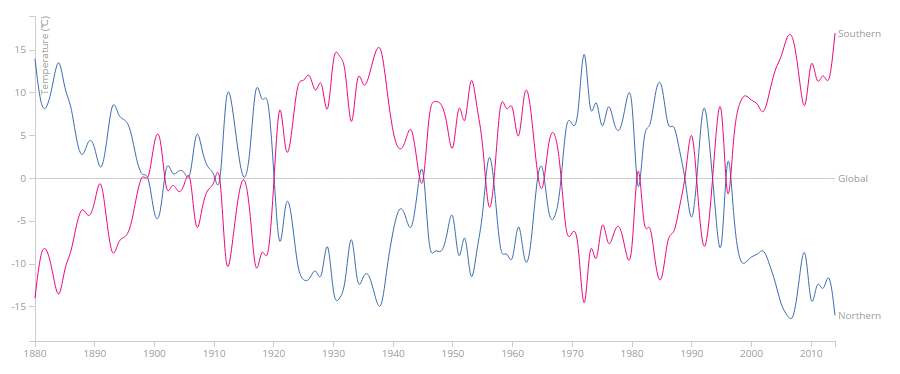
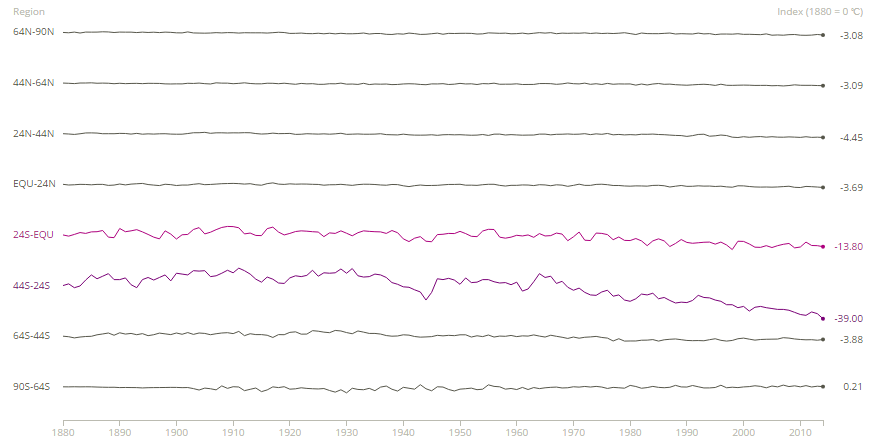
Updated to small multiples

diff --git a/js/colorbrewer.v1.min.js b/js/colorbrewer.v1.min.js
@@ -1,0 +1,1 @@
+var colorbrewer={YlGn:{3:["#f7fcb9","#addd8e","#31a354"],4:["#ffffcc","#c2e699","#78c679","#238443"],5:["#ffffcc","#c2e699","#78c679","#31a354","#006837"],6:["#ffffcc","#d9f0a3","#addd8e","#78c679","#31a354","#006837"],7:["#ffffcc","#d9f0a3","#addd8e","#78c679","#41ab5d","#238443","#005a32"],8:["#ffffe5","#f7fcb9","#d9f0a3","#addd8e","#78c679","#41ab5d","#238443","#005a32"],9:["#ffffe5","#f7fcb9","#d9f0a3","#addd8e","#78c679","#41ab5d","#238443","#006837","#004529"]},YlGnBu:{3:["#edf8b1","#7fcdbb","#2c7fb8"],4:["#ffffcc","#a1dab4","#41b6c4","#225ea8"],5:["#ffffcc","#a1dab4","#41b6c4","#2c7fb8","#253494"],6:["#ffffcc","#c7e9b4","#7fcdbb","#41b6c4","#2c7fb8","#253494"],7:["#ffffcc","#c7e9b4","#7fcdbb","#41b6c4","#1d91c0","#225ea8","#0c2c84"],8:["#ffffd9","#edf8b1","#c7e9b4","#7fcdbb","#41b6c4","#1d91c0","#225ea8","#0c2c84"],9:["#ffffd9","#edf8b1","#c7e9b4","#7fcdbb","#41b6c4","#1d91c0","#225ea8","#253494","#081d58"]},GnBu:{3:["#e0f3db","#a8ddb5","#43a2ca"],4:["#f0f9e8","#bae4bc","#7bccc4","#2b8cbe"],5:["#f0f9e8","#bae4bc","#7bccc4","#43a2ca","#0868ac"],6:["#f0f9e8","#ccebc5","#a8ddb5","#7bccc4","#43a2ca","#0868ac"],7:["#f0f9e8","#ccebc5","#a8ddb5","#7bccc4","#4eb3d3","#2b8cbe","#08589e"],8:["#f7fcf0","#e0f3db","#ccebc5","#a8ddb5","#7bccc4","#4eb3d3","#2b8cbe","#08589e"],9:["#f7fcf0","#e0f3db","#ccebc5","#a8ddb5","#7bccc4","#4eb3d3","#2b8cbe","#0868ac","#084081"]},BuGn:{3:["#e5f5f9","#99d8c9","#2ca25f"],4:["#edf8fb","#b2e2e2","#66c2a4","#238b45"],5:["#edf8fb","#b2e2e2","#66c2a4","#2ca25f","#006d2c"],6:["#edf8fb","#ccece6","#99d8c9","#66c2a4","#2ca25f","#006d2c"],7:["#edf8fb","#ccece6","#99d8c9","#66c2a4","#41ae76","#238b45","#005824"],8:["#f7fcfd","#e5f5f9","#ccece6","#99d8c9","#66c2a4","#41ae76","#238b45","#005824"],9:["#f7fcfd","#e5f5f9","#ccece6","#99d8c9","#66c2a4","#41ae76","#238b45","#006d2c","#00441b"]},PuBuGn:{3:["#ece2f0","#a6bddb","#1c9099"],4:["#f6eff7","#bdc9e1","#67a9cf","#02818a"],5:["#f6eff7","#bdc9e1","#67a9cf","#1c9099","#016c59"],6:["#f6eff7","#d0d1e6","#a6bddb","#67a9cf","#1c9099","#016c59"],7:["#f6eff7","#d0d1e6","#a6bddb","#67a9cf","#3690c0","#02818a","#016450"],8:["#fff7fb","#ece2f0","#d0d1e6","#a6bddb","#67a9cf","#3690c0","#02818a","#016450"],9:["#fff7fb","#ece2f0","#d0d1e6","#a6bddb","#67a9cf","#3690c0","#02818a","#016c59","#014636"]},PuBu:{3:["#ece7f2","#a6bddb","#2b8cbe"],4:["#f1eef6","#bdc9e1","#74a9cf","#0570b0"],5:["#f1eef6","#bdc9e1","#74a9cf","#2b8cbe","#045a8d"],6:["#f1eef6","#d0d1e6","#a6bddb","#74a9cf","#2b8cbe","#045a8d"],7:["#f1eef6","#d0d1e6","#a6bddb","#74a9cf","#3690c0","#0570b0","#034e7b"],8:["#fff7fb","#ece7f2","#d0d1e6","#a6bddb","#74a9cf","#3690c0","#0570b0","#034e7b"],9:["#fff7fb","#ece7f2","#d0d1e6","#a6bddb","#74a9cf","#3690c0","#0570b0","#045a8d","#023858"]},BuPu:{3:["#e0ecf4","#9ebcda","#8856a7"],4:["#edf8fb","#b3cde3","#8c96c6","#88419d"],5:["#edf8fb","#b3cde3","#8c96c6","#8856a7","#810f7c"],6:["#edf8fb","#bfd3e6","#9ebcda","#8c96c6","#8856a7","#810f7c"],7:["#edf8fb","#bfd3e6","#9ebcda","#8c96c6","#8c6bb1","#88419d","#6e016b"],8:["#f7fcfd","#e0ecf4","#bfd3e6","#9ebcda","#8c96c6","#8c6bb1","#88419d","#6e016b"],9:["#f7fcfd","#e0ecf4","#bfd3e6","#9ebcda","#8c96c6","#8c6bb1","#88419d","#810f7c","#4d004b"]},RdPu:{3:["#fde0dd","#fa9fb5","#c51b8a"],4:["#feebe2","#fbb4b9","#f768a1","#ae017e"],5:["#feebe2","#fbb4b9","#f768a1","#c51b8a","#7a0177"],6:["#feebe2","#fcc5c0","#fa9fb5","#f768a1","#c51b8a","#7a0177"],7:["#feebe2","#fcc5c0","#fa9fb5","#f768a1","#dd3497","#ae017e","#7a0177"],8:["#fff7f3","#fde0dd","#fcc5c0","#fa9fb5","#f768a1","#dd3497","#ae017e","#7a0177"],9:["#fff7f3","#fde0dd","#fcc5c0","#fa9fb5","#f768a1","#dd3497","#ae017e","#7a0177","#49006a"]},PuRd:{3:["#e7e1ef","#c994c7","#dd1c77"],4:["#f1eef6","#d7b5d8","#df65b0","#ce1256"],5:["#f1eef6","#d7b5d8","#df65b0","#dd1c77","#980043"],6:["#f1eef6","#d4b9da","#c994c7","#df65b0","#dd1c77","#980043"],7:["#f1eef6","#d4b9da","#c994c7","#df65b0","#e7298a","#ce1256","#91003f"],8:["#f7f4f9","#e7e1ef","#d4b9da","#c994c7","#df65b0","#e7298a","#ce1256","#91003f"],9:["#f7f4f9","#e7e1ef","#d4b9da","#c994c7","#df65b0","#e7298a","#ce1256","#980043","#67001f"]},OrRd:{3:["#fee8c8","#fdbb84","#e34a33"],4:["#fef0d9","#fdcc8a","#fc8d59","#d7301f"],5:["#fef0d9","#fdcc8a","#fc8d59","#e34a33","#b30000"],6:["#fef0d9","#fdd49e","#fdbb84","#fc8d59","#e34a33","#b30000"],7:["#fef0d9","#fdd49e","#fdbb84","#fc8d59","#ef6548","#d7301f","#990000"],8:["#fff7ec","#fee8c8","#fdd49e","#fdbb84","#fc8d59","#ef6548","#d7301f","#990000"],9:["#fff7ec","#fee8c8","#fdd49e","#fdbb84","#fc8d59","#ef6548","#d7301f","#b30000","#7f0000"]},YlOrRd:{3:["#ffeda0","#feb24c","#f03b20"],4:["#ffffb2","#fecc5c","#fd8d3c","#e31a1c"],5:["#ffffb2","#fecc5c","#fd8d3c","#f03b20","#bd0026"],6:["#ffffb2","#fed976","#feb24c","#fd8d3c","#f03b20","#bd0026"],7:["#ffffb2","#fed976","#feb24c","#fd8d3c","#fc4e2a","#e31a1c","#b10026"],8:["#ffffcc","#ffeda0","#fed976","#feb24c","#fd8d3c","#fc4e2a","#e31a1c","#b10026"],9:["#ffffcc","#ffeda0","#fed976","#feb24c","#fd8d3c","#fc4e2a","#e31a1c","#bd0026","#800026"]},YlOrBr:{3:["#fff7bc","#fec44f","#d95f0e"],4:["#ffffd4","#fed98e","#fe9929","#cc4c02"],5:["#ffffd4","#fed98e","#fe9929","#d95f0e","#993404"],6:["#ffffd4","#fee391","#fec44f","#fe9929","#d95f0e","#993404"],7:["#ffffd4","#fee391","#fec44f","#fe9929","#ec7014","#cc4c02","#8c2d04"],8:["#ffffe5","#fff7bc","#fee391","#fec44f","#fe9929","#ec7014","#cc4c02","#8c2d04"],9:["#ffffe5","#fff7bc","#fee391","#fec44f","#fe9929","#ec7014","#cc4c02","#993404","#662506"]},Purples:{3:["#efedf5","#bcbddc","#756bb1"],4:["#f2f0f7","#cbc9e2","#9e9ac8","#6a51a3"],5:["#f2f0f7","#cbc9e2","#9e9ac8","#756bb1","#54278f"],6:["#f2f0f7","#dadaeb","#bcbddc","#9e9ac8","#756bb1","#54278f"],7:["#f2f0f7","#dadaeb","#bcbddc","#9e9ac8","#807dba","#6a51a3","#4a1486"],8:["#fcfbfd","#efedf5","#dadaeb","#bcbddc","#9e9ac8","#807dba","#6a51a3","#4a1486"],9:["#fcfbfd","#efedf5","#dadaeb","#bcbddc","#9e9ac8","#807dba","#6a51a3","#54278f","#3f007d"]},Blues:{3:["#deebf7","#9ecae1","#3182bd"],4:["#eff3ff","#bdd7e7","#6baed6","#2171b5"],5:["#eff3ff","#bdd7e7","#6baed6","#3182bd","#08519c"],6:["#eff3ff","#c6dbef","#9ecae1","#6baed6","#3182bd","#08519c"],7:["#eff3ff","#c6dbef","#9ecae1","#6baed6","#4292c6","#2171b5","#084594"],8:["#f7fbff","#deebf7","#c6dbef","#9ecae1","#6baed6","#4292c6","#2171b5","#084594"],9:["#f7fbff","#deebf7","#c6dbef","#9ecae1","#6baed6","#4292c6","#2171b5","#08519c","#08306b"]},Greens:{3:["#e5f5e0","#a1d99b","#31a354"],4:["#edf8e9","#bae4b3","#74c476","#238b45"],5:["#edf8e9","#bae4b3","#74c476","#31a354","#006d2c"],6:["#edf8e9","#c7e9c0","#a1d99b","#74c476","#31a354","#006d2c"],7:["#edf8e9","#c7e9c0","#a1d99b","#74c476","#41ab5d","#238b45","#005a32"],8:["#f7fcf5","#e5f5e0","#c7e9c0","#a1d99b","#74c476","#41ab5d","#238b45","#005a32"],9:["#f7fcf5","#e5f5e0","#c7e9c0","#a1d99b","#74c476","#41ab5d","#238b45","#006d2c","#00441b"]},Oranges:{3:["#fee6ce","#fdae6b","#e6550d"],4:["#feedde","#fdbe85","#fd8d3c","#d94701"],5:["#feedde","#fdbe85","#fd8d3c","#e6550d","#a63603"],6:["#feedde","#fdd0a2","#fdae6b","#fd8d3c","#e6550d","#a63603"],7:["#feedde","#fdd0a2","#fdae6b","#fd8d3c","#f16913","#d94801","#8c2d04"],8:["#fff5eb","#fee6ce","#fdd0a2","#fdae6b","#fd8d3c","#f16913","#d94801","#8c2d04"],9:["#fff5eb","#fee6ce","#fdd0a2","#fdae6b","#fd8d3c","#f16913","#d94801","#a63603","#7f2704"]},Reds:{3:["#fee0d2","#fc9272","#de2d26"],4:["#fee5d9","#fcae91","#fb6a4a","#cb181d"],5:["#fee5d9","#fcae91","#fb6a4a","#de2d26","#a50f15"],6:["#fee5d9","#fcbba1","#fc9272","#fb6a4a","#de2d26","#a50f15"],7:["#fee5d9","#fcbba1","#fc9272","#fb6a4a","#ef3b2c","#cb181d","#99000d"],8:["#fff5f0","#fee0d2","#fcbba1","#fc9272","#fb6a4a","#ef3b2c","#cb181d","#99000d"],9:["#fff5f0","#fee0d2","#fcbba1","#fc9272","#fb6a4a","#ef3b2c","#cb181d","#a50f15","#67000d"]},Greys:{3:["#f0f0f0","#bdbdbd","#636363"],4:["#f7f7f7","#cccccc","#969696","#525252"],5:["#f7f7f7","#cccccc","#969696","#636363","#252525"],6:["#f7f7f7","#d9d9d9","#bdbdbd","#969696","#636363","#252525"],7:["#f7f7f7","#d9d9d9","#bdbdbd","#969696","#737373","#525252","#252525"],8:["#ffffff","#f0f0f0","#d9d9d9","#bdbdbd","#969696","#737373","#525252","#252525"],9:["#ffffff","#f0f0f0","#d9d9d9","#bdbdbd","#969696","#737373","#525252","#252525","#000000"]},PuOr:{3:["#f1a340","#f7f7f7","#998ec3"],4:["#e66101","#fdb863","#b2abd2","#5e3c99"],5:["#e66101","#fdb863","#f7f7f7","#b2abd2","#5e3c99"],6:["#b35806","#f1a340","#fee0b6","#d8daeb","#998ec3","#542788"],7:["#b35806","#f1a340","#fee0b6","#f7f7f7","#d8daeb","#998ec3","#542788"],8:["#b35806","#e08214","#fdb863","#fee0b6","#d8daeb","#b2abd2","#8073ac","#542788"],9:["#b35806","#e08214","#fdb863","#fee0b6","#f7f7f7","#d8daeb","#b2abd2","#8073ac","#542788"],10:["#7f3b08","#b35806","#e08214","#fdb863","#fee0b6","#d8daeb","#b2abd2","#8073ac","#542788","#2d004b"],11:["#7f3b08","#b35806","#e08214","#fdb863","#fee0b6","#f7f7f7","#d8daeb","#b2abd2","#8073ac","#542788","#2d004b"]},BrBG:{3:["#d8b365","#f5f5f5","#5ab4ac"],4:["#a6611a","#dfc27d","#80cdc1","#018571"],5:["#a6611a","#dfc27d","#f5f5f5","#80cdc1","#018571"],6:["#8c510a","#d8b365","#f6e8c3","#c7eae5","#5ab4ac","#01665e"],7:["#8c510a","#d8b365","#f6e8c3","#f5f5f5","#c7eae5","#5ab4ac","#01665e"],8:["#8c510a","#bf812d","#dfc27d","#f6e8c3","#c7eae5","#80cdc1","#35978f","#01665e"],9:["#8c510a","#bf812d","#dfc27d","#f6e8c3","#f5f5f5","#c7eae5","#80cdc1","#35978f","#01665e"],10:["#543005","#8c510a","#bf812d","#dfc27d","#f6e8c3","#c7eae5","#80cdc1","#35978f","#01665e","#003c30"],11:["#543005","#8c510a","#bf812d","#dfc27d","#f6e8c3","#f5f5f5","#c7eae5","#80cdc1","#35978f","#01665e","#003c30"]},PRGn:{3:["#af8dc3","#f7f7f7","#7fbf7b"],4:["#7b3294","#c2a5cf","#a6dba0","#008837"],5:["#7b3294","#c2a5cf","#f7f7f7","#a6dba0","#008837"],6:["#762a83","#af8dc3","#e7d4e8","#d9f0d3","#7fbf7b","#1b7837"],7:["#762a83","#af8dc3","#e7d4e8","#f7f7f7","#d9f0d3","#7fbf7b","#1b7837"],8:["#762a83","#9970ab","#c2a5cf","#e7d4e8","#d9f0d3","#a6dba0","#5aae61","#1b7837"],9:["#762a83","#9970ab","#c2a5cf","#e7d4e8","#f7f7f7","#d9f0d3","#a6dba0","#5aae61","#1b7837"],10:["#40004b","#762a83","#9970ab","#c2a5cf","#e7d4e8","#d9f0d3","#a6dba0","#5aae61","#1b7837","#00441b"],11:["#40004b","#762a83","#9970ab","#c2a5cf","#e7d4e8","#f7f7f7","#d9f0d3","#a6dba0","#5aae61","#1b7837","#00441b"]},PiYG:{3:["#e9a3c9","#f7f7f7","#a1d76a"],4:["#d01c8b","#f1b6da","#b8e186","#4dac26"],5:["#d01c8b","#f1b6da","#f7f7f7","#b8e186","#4dac26"],6:["#c51b7d","#e9a3c9","#fde0ef","#e6f5d0","#a1d76a","#4d9221"],7:["#c51b7d","#e9a3c9","#fde0ef","#f7f7f7","#e6f5d0","#a1d76a","#4d9221"],8:["#c51b7d","#de77ae","#f1b6da","#fde0ef","#e6f5d0","#b8e186","#7fbc41","#4d9221"],9:["#c51b7d","#de77ae","#f1b6da","#fde0ef","#f7f7f7","#e6f5d0","#b8e186","#7fbc41","#4d9221"],10:["#8e0152","#c51b7d","#de77ae","#f1b6da","#fde0ef","#e6f5d0","#b8e186","#7fbc41","#4d9221","#276419"],11:["#8e0152","#c51b7d","#de77ae","#f1b6da","#fde0ef","#f7f7f7","#e6f5d0","#b8e186","#7fbc41","#4d9221","#276419"]},RdBu:{3:["#ef8a62","#f7f7f7","#67a9cf"],4:["#ca0020","#f4a582","#92c5de","#0571b0"],5:["#ca0020","#f4a582","#f7f7f7","#92c5de","#0571b0"],6:["#b2182b","#ef8a62","#fddbc7","#d1e5f0","#67a9cf","#2166ac"],7:["#b2182b","#ef8a62","#fddbc7","#f7f7f7","#d1e5f0","#67a9cf","#2166ac"],8:["#b2182b","#d6604d","#f4a582","#fddbc7","#d1e5f0","#92c5de","#4393c3","#2166ac"],9:["#b2182b","#d6604d","#f4a582","#fddbc7","#f7f7f7","#d1e5f0","#92c5de","#4393c3","#2166ac"],10:["#67001f","#b2182b","#d6604d","#f4a582","#fddbc7","#d1e5f0","#92c5de","#4393c3","#2166ac","#053061"],11:["#67001f","#b2182b","#d6604d","#f4a582","#fddbc7","#f7f7f7","#d1e5f0","#92c5de","#4393c3","#2166ac","#053061"]},RdGy:{3:["#ef8a62","#ffffff","#999999"],4:["#ca0020","#f4a582","#bababa","#404040"],5:["#ca0020","#f4a582","#ffffff","#bababa","#404040"],6:["#b2182b","#ef8a62","#fddbc7","#e0e0e0","#999999","#4d4d4d"],7:["#b2182b","#ef8a62","#fddbc7","#ffffff","#e0e0e0","#999999","#4d4d4d"],8:["#b2182b","#d6604d","#f4a582","#fddbc7","#e0e0e0","#bababa","#878787","#4d4d4d"],9:["#b2182b","#d6604d","#f4a582","#fddbc7","#ffffff","#e0e0e0","#bababa","#878787","#4d4d4d"],10:["#67001f","#b2182b","#d6604d","#f4a582","#fddbc7","#e0e0e0","#bababa","#878787","#4d4d4d","#1a1a1a"],11:["#67001f","#b2182b","#d6604d","#f4a582","#fddbc7","#ffffff","#e0e0e0","#bababa","#878787","#4d4d4d","#1a1a1a"]},RdYlBu:{3:["#fc8d59","#ffffbf","#91bfdb"],4:["#d7191c","#fdae61","#abd9e9","#2c7bb6"],5:["#d7191c","#fdae61","#ffffbf","#abd9e9","#2c7bb6"],6:["#d73027","#fc8d59","#fee090","#e0f3f8","#91bfdb","#4575b4"],7:["#d73027","#fc8d59","#fee090","#ffffbf","#e0f3f8","#91bfdb","#4575b4"],8:["#d73027","#f46d43","#fdae61","#fee090","#e0f3f8","#abd9e9","#74add1","#4575b4"],9:["#d73027","#f46d43","#fdae61","#fee090","#ffffbf","#e0f3f8","#abd9e9","#74add1","#4575b4"],10:["#a50026","#d73027","#f46d43","#fdae61","#fee090","#e0f3f8","#abd9e9","#74add1","#4575b4","#313695"],11:["#a50026","#d73027","#f46d43","#fdae61","#fee090","#ffffbf","#e0f3f8","#abd9e9","#74add1","#4575b4","#313695"]},Spectral:{3:["#fc8d59","#ffffbf","#99d594"],4:["#d7191c","#fdae61","#abdda4","#2b83ba"],5:["#d7191c","#fdae61","#ffffbf","#abdda4","#2b83ba"],6:["#d53e4f","#fc8d59","#fee08b","#e6f598","#99d594","#3288bd"],7:["#d53e4f","#fc8d59","#fee08b","#ffffbf","#e6f598","#99d594","#3288bd"],8:["#d53e4f","#f46d43","#fdae61","#fee08b","#e6f598","#abdda4","#66c2a5","#3288bd"],9:["#d53e4f","#f46d43","#fdae61","#fee08b","#ffffbf","#e6f598","#abdda4","#66c2a5","#3288bd"],10:["#9e0142","#d53e4f","#f46d43","#fdae61","#fee08b","#e6f598","#abdda4","#66c2a5","#3288bd","#5e4fa2"],11:["#9e0142","#d53e4f","#f46d43","#fdae61","#fee08b","#ffffbf","#e6f598","#abdda4","#66c2a5","#3288bd","#5e4fa2"]},RdYlGn:{3:["#fc8d59","#ffffbf","#91cf60"],4:["#d7191c","#fdae61","#a6d96a","#1a9641"],5:["#d7191c","#fdae61","#ffffbf","#a6d96a","#1a9641"],6:["#d73027","#fc8d59","#fee08b","#d9ef8b","#91cf60","#1a9850"],7:["#d73027","#fc8d59","#fee08b","#ffffbf","#d9ef8b","#91cf60","#1a9850"],8:["#d73027","#f46d43","#fdae61","#fee08b","#d9ef8b","#a6d96a","#66bd63","#1a9850"],9:["#d73027","#f46d43","#fdae61","#fee08b","#ffffbf","#d9ef8b","#a6d96a","#66bd63","#1a9850"],10:["#a50026","#d73027","#f46d43","#fdae61","#fee08b","#d9ef8b","#a6d96a","#66bd63","#1a9850","#006837"],11:["#a50026","#d73027","#f46d43","#fdae61","#fee08b","#ffffbf","#d9ef8b","#a6d96a","#66bd63","#1a9850","#006837"]},Accent:{3:["#7fc97f","#beaed4","#fdc086"],4:["#7fc97f","#beaed4","#fdc086","#ffff99"],5:["#7fc97f","#beaed4","#fdc086","#ffff99","#386cb0"],6:["#7fc97f","#beaed4","#fdc086","#ffff99","#386cb0","#f0027f"],7:["#7fc97f","#beaed4","#fdc086","#ffff99","#386cb0","#f0027f","#bf5b17"],8:["#7fc97f","#beaed4","#fdc086","#ffff99","#386cb0","#f0027f","#bf5b17","#666666"]},Dark2:{3:["#1b9e77","#d95f02","#7570b3"],4:["#1b9e77","#d95f02","#7570b3","#e7298a"],5:["#1b9e77","#d95f02","#7570b3","#e7298a","#66a61e"],6:["#1b9e77","#d95f02","#7570b3","#e7298a","#66a61e","#e6ab02"],7:["#1b9e77","#d95f02","#7570b3","#e7298a","#66a61e","#e6ab02","#a6761d"],8:["#1b9e77","#d95f02","#7570b3","#e7298a","#66a61e","#e6ab02","#a6761d","#666666"]},Paired:{3:["#a6cee3","#1f78b4","#b2df8a"],4:["#a6cee3","#1f78b4","#b2df8a","#33a02c"],5:["#a6cee3","#1f78b4","#b2df8a","#33a02c","#fb9a99"],6:["#a6cee3","#1f78b4","#b2df8a","#33a02c","#fb9a99","#e31a1c"],7:["#a6cee3","#1f78b4","#b2df8a","#33a02c","#fb9a99","#e31a1c","#fdbf6f"],8:["#a6cee3","#1f78b4","#b2df8a","#33a02c","#fb9a99","#e31a1c","#fdbf6f","#ff7f00"],9:["#a6cee3","#1f78b4","#b2df8a","#33a02c","#fb9a99","#e31a1c","#fdbf6f","#ff7f00","#cab2d6"],10:["#a6cee3","#1f78b4","#b2df8a","#33a02c","#fb9a99","#e31a1c","#fdbf6f","#ff7f00","#cab2d6","#6a3d9a"],11:["#a6cee3","#1f78b4","#b2df8a","#33a02c","#fb9a99","#e31a1c","#fdbf6f","#ff7f00","#cab2d6","#6a3d9a","#ffff99"],12:["#a6cee3","#1f78b4","#b2df8a","#33a02c","#fb9a99","#e31a1c","#fdbf6f","#ff7f00","#cab2d6","#6a3d9a","#ffff99","#b15928"]},Pastel1:{3:["#fbb4ae","#b3cde3","#ccebc5"],4:["#fbb4ae","#b3cde3","#ccebc5","#decbe4"],5:["#fbb4ae","#b3cde3","#ccebc5","#decbe4","#fed9a6"],6:["#fbb4ae","#b3cde3","#ccebc5","#decbe4","#fed9a6","#ffffcc"],7:["#fbb4ae","#b3cde3","#ccebc5","#decbe4","#fed9a6","#ffffcc","#e5d8bd"],8:["#fbb4ae","#b3cde3","#ccebc5","#decbe4","#fed9a6","#ffffcc","#e5d8bd","#fddaec"],9:["#fbb4ae","#b3cde3","#ccebc5","#decbe4","#fed9a6","#ffffcc","#e5d8bd","#fddaec","#f2f2f2"]},Pastel2:{3:["#b3e2cd","#fdcdac","#cbd5e8"],4:["#b3e2cd","#fdcdac","#cbd5e8","#f4cae4"],5:["#b3e2cd","#fdcdac","#cbd5e8","#f4cae4","#e6f5c9"],6:["#b3e2cd","#fdcdac","#cbd5e8","#f4cae4","#e6f5c9","#fff2ae"],7:["#b3e2cd","#fdcdac","#cbd5e8","#f4cae4","#e6f5c9","#fff2ae","#f1e2cc"],8:["#b3e2cd","#fdcdac","#cbd5e8","#f4cae4","#e6f5c9","#fff2ae","#f1e2cc","#cccccc"]},Set1:{3:["#e41a1c","#377eb8","#4daf4a"],4:["#e41a1c","#377eb8","#4daf4a","#984ea3"],5:["#e41a1c","#377eb8","#4daf4a","#984ea3","#ff7f00"],6:["#e41a1c","#377eb8","#4daf4a","#984ea3","#ff7f00","#ffff33"],7:["#e41a1c","#377eb8","#4daf4a","#984ea3","#ff7f00","#ffff33","#a65628"],8:["#e41a1c","#377eb8","#4daf4a","#984ea3","#ff7f00","#ffff33","#a65628","#f781bf"],9:["#e41a1c","#377eb8","#4daf4a","#984ea3","#ff7f00","#ffff33","#a65628","#f781bf","#999999"]},Set2:{3:["#66c2a5","#fc8d62","#8da0cb"],4:["#66c2a5","#fc8d62","#8da0cb","#e78ac3"],5:["#66c2a5","#fc8d62","#8da0cb","#e78ac3","#a6d854"],6:["#66c2a5","#fc8d62","#8da0cb","#e78ac3","#a6d854","#ffd92f"],7:["#66c2a5","#fc8d62","#8da0cb","#e78ac3","#a6d854","#ffd92f","#e5c494"],8:["#66c2a5","#fc8d62","#8da0cb","#e78ac3","#a6d854","#ffd92f","#e5c494","#b3b3b3"]},Set3:{3:["#8dd3c7","#ffffb3","#bebada"],4:["#8dd3c7","#ffffb3","#bebada","#fb8072"],5:["#8dd3c7","#ffffb3","#bebada","#fb8072","#80b1d3"],6:["#8dd3c7","#ffffb3","#bebada","#fb8072","#80b1d3","#fdb462"],7:["#8dd3c7","#ffffb3","#bebada","#fb8072","#80b1d3","#fdb462","#b3de69"],8:["#8dd3c7","#ffffb3","#bebada","#fb8072","#80b1d3","#fdb462","#b3de69","#fccde5"],9:["#8dd3c7","#ffffb3","#bebada","#fb8072","#80b1d3","#fdb462","#b3de69","#fccde5","#d9d9d9"],10:["#8dd3c7","#ffffb3","#bebada","#fb8072","#80b1d3","#fdb462","#b3de69","#fccde5","#d9d9d9","#bc80bd"],11:["#8dd3c7","#ffffb3","#bebada","#fb8072","#80b1d3","#fdb462","#b3de69","#fccde5","#d9d9d9","#bc80bd","#ccebc5"],12:["#8dd3c7","#ffffb3","#bebada","#fb8072","#80b1d3","#fdb462","#b3de69","#fccde5","#d9d9d9","#bc80bd","#ccebc5","#ffed6f"]}};

diff --git a/js/gistemp.js b/js/gistemp.js
@@ -6,36 +6,32 @@
  * Adapted from Mike Bostock's Multi-Series Line Chart: http://bl.ocks.org/mbostock/3884955
  *
  * @author: Hugo Janssen
- * @date:   7/29/2015
+ * @date:   7/30/2015
  */
 "use strict";
 
 function gistemp(elt, w, h) {
 
-	var margin = {top: 25, right: 50, bottom: 50, left: 50},
+	var margin = {top: 25, right: 40, bottom: 50, left: 100},
 		width = w - margin.left - margin.right,
 		height = h - margin.top - margin.bottom;
 	
 	var x = d3.time.scale()
 		.range([0, width]);
 	
-	var y = d3.scale.linear()
-		.range([height, 0]);
+	var y = d3.scale.linear();
 
-	var color = d3.scale.ordinal()
-		.range(["#CCCCCC","#386CB0", "#F0027F"]); // Colorbrewer 6-class Accent
+	var numberFormat = d3.format(",.2f");
+
+	// hard coded colors to highlight anomalies 
+	var color = d3.scale.ordinal().range(["#56564A","#56564A","#56564A","#56564A","#AE017E","#7A0177","#56564A","#56564A"]);
 	
 	var xAxis = d3.svg.axis()
 		.scale(x)
 		.ticks(d3.time.years, 10)
 		.orient("bottom");
-
-	var yAxis = d3.svg.axis()
-		.scale(y)
-		.orient("left");
 		
 	var line = d3.svg.line()
-		.interpolate("basis")
 		.x(function(d) { return x(d.date); })
 		.y(function(d) { return y(d.temperature); });
 		
@@ -50,18 +46,22 @@ function gistemp(elt, w, h) {
 
 		data.forEach(function(d){
 			d.year = new Date(+d.Year, 0, 1);
-			d.Global = 0;
-			d.Northern = +d.Glob - +d.NHem;
-			d.Southern = +d.Glob - +d.SHem;
 		});
 		
-		color.domain(d3.keys(data[0]).filter(function(key) { return key == "Global" || key === "Northern" || key === "Southern"; }));
+		color.domain(d3.keys(data[0]).filter(function(key) { return key !== "Year" && key !== "year" 
+			&& key !== "Glob" 
+			&& key !== "NHem" 
+			&& key !== "SHem" 
+			&& key !== "24N-90N"
+			&& key !== "90S-24S"
+			&& key !== "24S-24N"; 
+		}));
 		
 		var temperatures = color.domain().map(function(name) {
 			return {
 				name: name,
 				values: data.map(function(d) {
-					return {date: d.year, temperature: +d[name]};
+					return {date: d.year, temperature: +d[name] / data[0][name] - 1}; // index 1880 = 0
 				})
 			};
 		});
@@ -70,38 +70,62 @@ function gistemp(elt, w, h) {
 		y.domain([
 			d3.min(temperatures, function(c) { return d3.min(c.values, function(v) { return v.temperature; }); }),
 			d3.max(temperatures, function(c) { return d3.max(c.values, function(v) { return v.temperature; }); })
-		]);
+		]).range([height / temperatures.length, 0]);
 		
+		// append x-axis to the chart
 		svg.append("g")
 			.attr("class", "x axis")
 			.attr("transform", "translate(0," + height + ")")
 			.call(xAxis);
-	  
-		svg.append("g")
-			.attr("class", "y axis")
-			.call(yAxis)
-		.append("text")
-			.attr("transform", "rotate(-90)")
-			.attr("y", 6)
-			.attr("dy", ".71em")
-			.style("text-anchor", "end")
-			.text("Temperature (℃)");
 		
-		var location = svg.selectAll(".location")
+		// y-axis title left
+		svg.append("text")
+			.attr("x", -1 *  margin.left / 2)
+			.text("Region");
+	  
+		// y-axis title right
+		svg.append("text")
+			.attr("x", width + margin.right)
+			.attr("text-anchor", "end")
+			.text("Index (1880 = 0 ℃)");
+			
+		// create small multiple for each region
+		var region = svg.selectAll(".region")
 			.data(temperatures)
 		.enter().append("g")
-			.attr("class", "location");
+			.attr("class", "region")			
+			.attr("transform", function(d,i) { return "translate(0," + (i * height / temperatures.length) + ")" });
 
-		location.append("path")
+		region.append("path")
 			.attr("class", "line")
 			.attr("d", function(d) { return line(d.values); })
 			.style("stroke", function(d) { return color(d.name); });
 
-		location.append("text")
+		// label the region
+		region.append("text")
+			.datum(function(d) { return {name: d.name, value: d.values[d.values.length - 1]}; })
+			.attr("transform", "translate(0, " + height / temperatures.length / 3 + ")")
+			.attr("x", -1 *  margin.left / 2)
+			.attr("dy", ".35em")
+			.style("fill", function(d) { return color(d.name); })
+			.text(function(d) { return d.name; });	
+		
+		// display the last value
+		region.append("text")
 			.datum(function(d) { return {name: d.name, value: d.values[d.values.length - 1]}; })
 			.attr("transform", function(d) { return "translate(" + x(d.value.date) + "," + y(d.value.temperature) + ")"; })
-			.attr("x", 3)
+			.attr("x", margin.right)
+			.attr("text-anchor", "end")
 			.attr("dy", ".35em")
-			.text(function(d) { return d.name; });	
+			.style("fill", function(d) { return color(d.name); })
+			.text(function(d) { return numberFormat(d.value.temperature); });	
+			
+		// highlight the last value
+	 	region.append("circle")
+			.datum(function(d) { return {name: d.name, value: d.values[d.values.length - 1]}; })
+			.attr("cx", function(d) { return x(d.value.date); })
+			.attr("cy", function(d) { return y(d.value.temperature); })
+			.attr("r", 2.0)
+			.style("fill", function(d) { return color(d.name); });
 	});
 }

diff --git a/index.html b/index.html
@@ -7,6 +7,7 @@
 
     <script src="https://cdnjs.cloudflare.com/ajax/libs/d3/3.5.5/d3.min.js" charset="utf-8"></script>
 
+    <script type="text/javascript" src="js/colorbrewer.v1.min.js"></script>
     <script type="text/javascript" src="js/gistemp.js"></script>
     
     <link type="text/css" rel="stylesheet" href="css/gistemp.css">
@@ -16,17 +17,15 @@
   <body>
     <h1>Visualizing GISTEMP data in D3.js</h1>
 	
-    <p>This graph visualizes the GISTEMP data. It shows the deviation from the mean Global temperature (grey line) for the Northern (blue) and Southern Hemispheres (pink) through 
-	all the given years. <br/><br/>
-	Interestingly, the chart shows that temperatures in the Northern and Southern hemispheres alternate with respect to the Global mean. From 1880 until 1920 for example, the 
-	Northern hemisphere was warmer on average than the Southern hemisphere (with a small inversion around 1900), whereas in the period from 1920 until 1968 the Southern 
-	hemisphere was relatively the warmest (with small inversions around 1945, 1957 and 1965).
+    <p>This chart visualizes NASA's GISTEMP data. It shows temperatures in regions between the earth's circles of latitude over the period from 1880 until 2014. <br/>
+	</br>
+	I chose to visualize the data according to the 'small multiples' principle, whereby each region is displayed as a separate line chart. The regions are ordered from North (top) to South (bottom), thus representing their actual location on a globe. The temperatures are indexed to 1880's value(1880 = 0 degrees celcius) to make it easier to discover trends within regions. Also, with all multiples having the same scale, regions can be easily compared with each other. I used a greyish color as base color for the chart as to create a neutral canvas with sufficient contrast. Axis labels are slightly lighter, so that they do not draw away the user's attention of the actual data. Finally, the regions with the highest deviation are colored in purple, so that, besides their distinctive shape, they stand out from the others. 
 	</p>
 	
     <div id="gistemp" class="gistemp-chart"></div>
-    
+
   </body>
 
-  <script type="text/javascript">gistemp("#gistemp", 900, 400);</script>
+  <script type="text/javascript">gistemp("#gistemp", 900, 480);</script>
  
 </html> 

diff --git a/css/gistemp.css b/css/gistemp.css
@@ -3,7 +3,7 @@
  * Stylesheet for the GISTEMP visualization. 
  *
  * @author: Hugo Janssen
- * @date:   7/29/2015
+ * @date:   7/30/2015
  */
 @import url('http://fonts.googleapis.com/css?family=Open+Sans:400,700');
 
@@ -12,13 +12,13 @@ body {
     font-size: 13px;
 }
 
-.gistemp-chart {
+.gistemp-chart text {
     font-size: 10px;
-    fill: #aaa;
+	fill: #BBBBB1;
 }
 
 .gistemp-chart path.line {
-	fill:none;
+	fill: none;
     stroke-width: 1px;
 }
 
@@ -26,6 +26,6 @@ body {
 .gistemp-chart .axis path {
     fill: none;
     stroke-width: 1px;
-    stroke: #ccc;
+    stroke: #BBBBB1;
     shape-rendering: crispEdges;
 }
